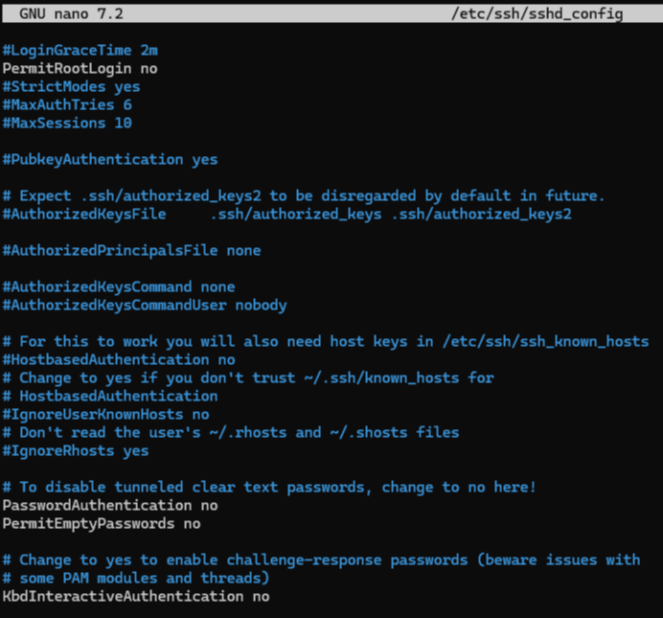
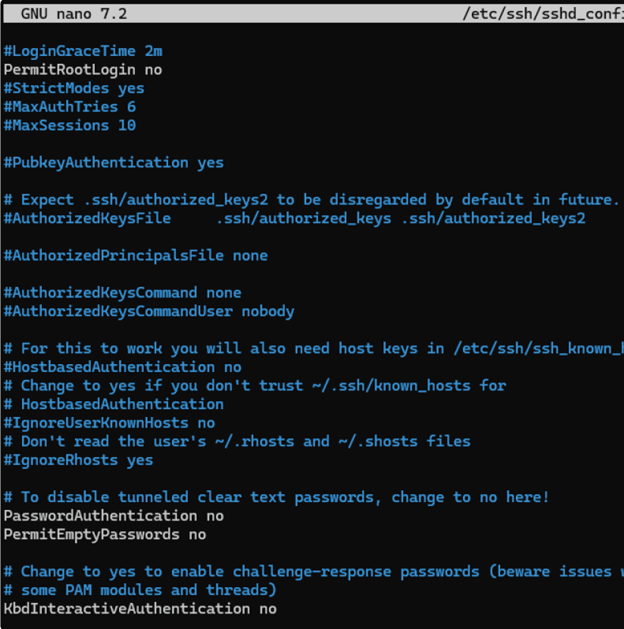
new

diff --git a/Initial_setup/very_first.md b/Initial_setup/very_first.md
@@ -101,6 +101,7 @@ nano /etc/ssh/sshd_config
 ![](../image/Рисунок3.png)
 
 Ищем там строчку "# Port 22" и раскомментируем её (убираем символ "#"), а также меняем порт на любой не занятый из диапазона 10001-65535 (посмотреть занятые порты можно командой "ss -lntup"). Также ищем строчку "PermitRootLogin yes" и меняем "yes" на "no", отключив тем самым возможность подключения по ssh через root. Сохраняем файл, нажав Ctrl + O, затем Enter, закрываем файл, нажав Ctrl + X.
+
 3. &emsp; Выполняем перезагрузку ssh командой:
 ```
 systemctl restart sshd
@@ -110,12 +111,15 @@ systemctl restart sshd
 ssh user_name@194.105.82.110 -p 43921
 ```
 Примечания: если подключиться не удалось, проверьте правильность введённой информации. Если вы всё вводите верно, а подключиться не удаётся, значит либо сервер лёг (так совпало, что у вашего хостера какие-то проблемы), либо вы его некорректно настроили. Сбросьте систему до исходного состояния через сайт хостера и повторите попытку, уже внимательнее.
+
 5. &emsp; И напоследок крайне желательно использовать подключение по ssh не по паролю, а с помощью ключей, ведь подобрать ваш 20-значный пароль проще, чем очень длинный и сложный закрытый-ключ. Также настройка ssh-ключей позволит вам проще подключаться к серверу.
+
 Если для вас этот пункт окажется слишком сложным, то его можно пропустить.
 Другой пример генерации ключей можно посмотреть [тут](https://selectel.ru/blog/ssh-authentication/).
+
 Чтобы всё заработало, надо сделать две вещи: сгенерировать пару ключей (приватный, публичный) и скопировать публичный ключ на сервер. Публичный ключ используется на сервере для расшифрования информации и аутентификации пользователя, а приватный используется на клиенте (вашем ПК) для зашифрования информации.
-Для генерации пары ключей в консоли windows выполняем команду, генерирующую ключи по более безопасному алгоритму на эллиптических кривых (вас спросят в какую директорию сохранить ключи и нужно ли использовать для них пароль. С одной стороны запаролить их будет безопаснее, с другой, пароль
-придётся вводить при каждом подключении, так что решайте для
+
+Для генерации пары ключей в консоли windows выполняем команду, генерирующую ключи по более безопасному алгоритму на эллиптических кривых (вас спросят в какую директорию сохранить ключи и нужно ли использовать для них пароль. С одной стороны запаролить их будет безопаснее, с другой, пароль придётся вводить при каждом подключении, так что решайте для
 себя сами):
 ```
 ssh-keygen -t ed25519